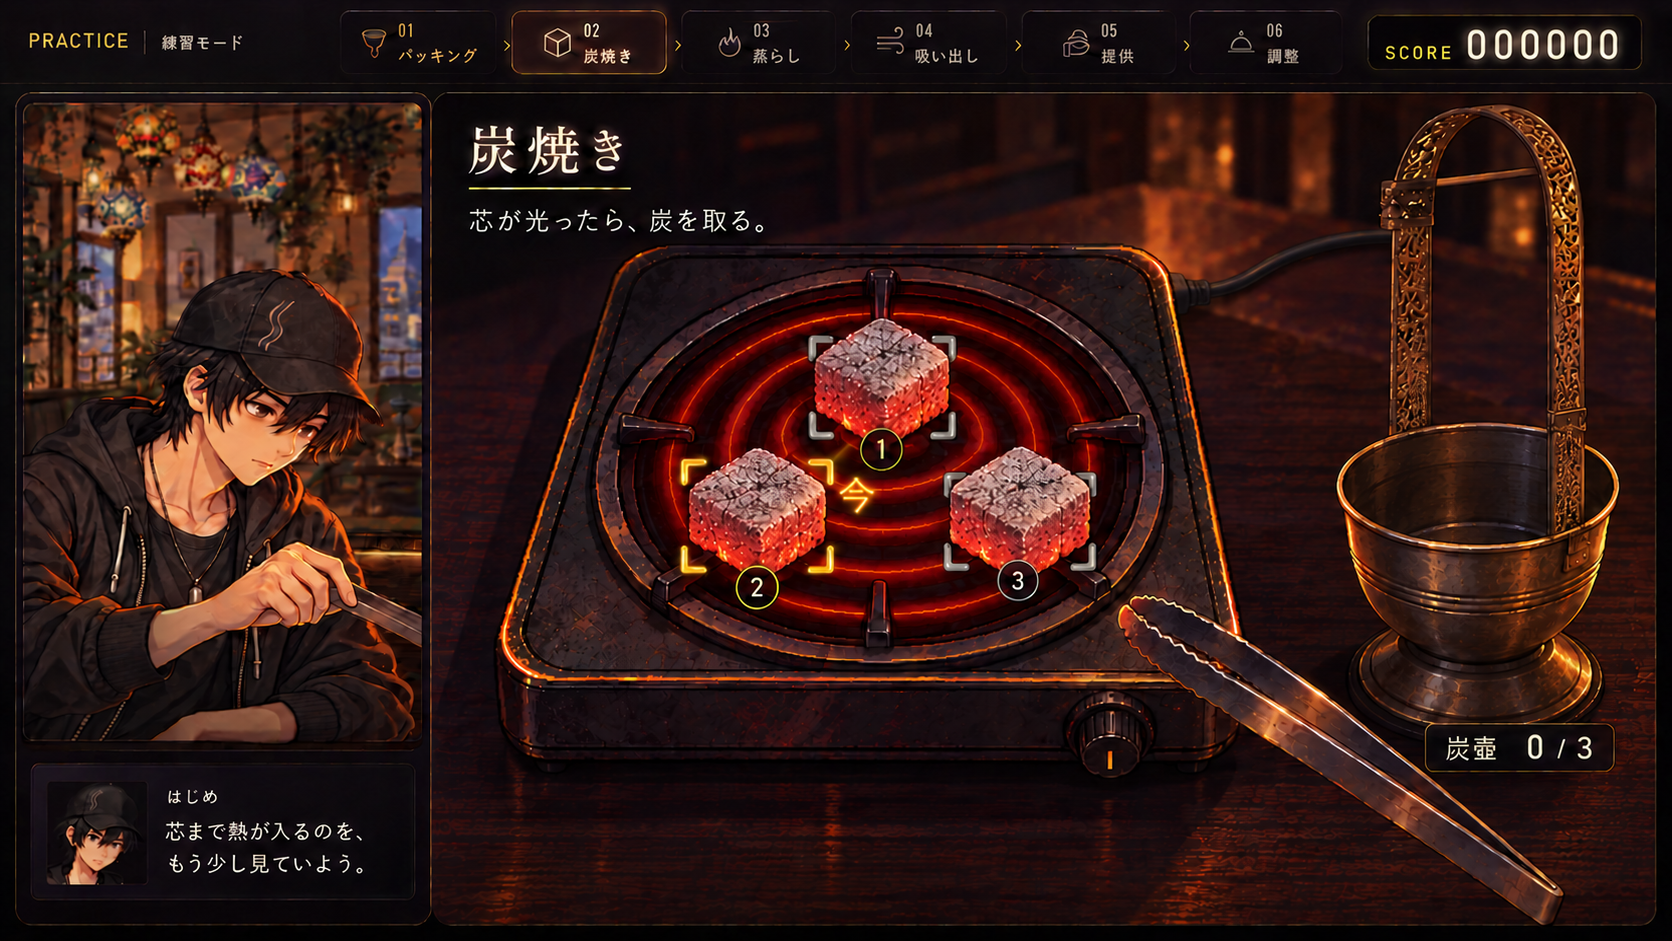
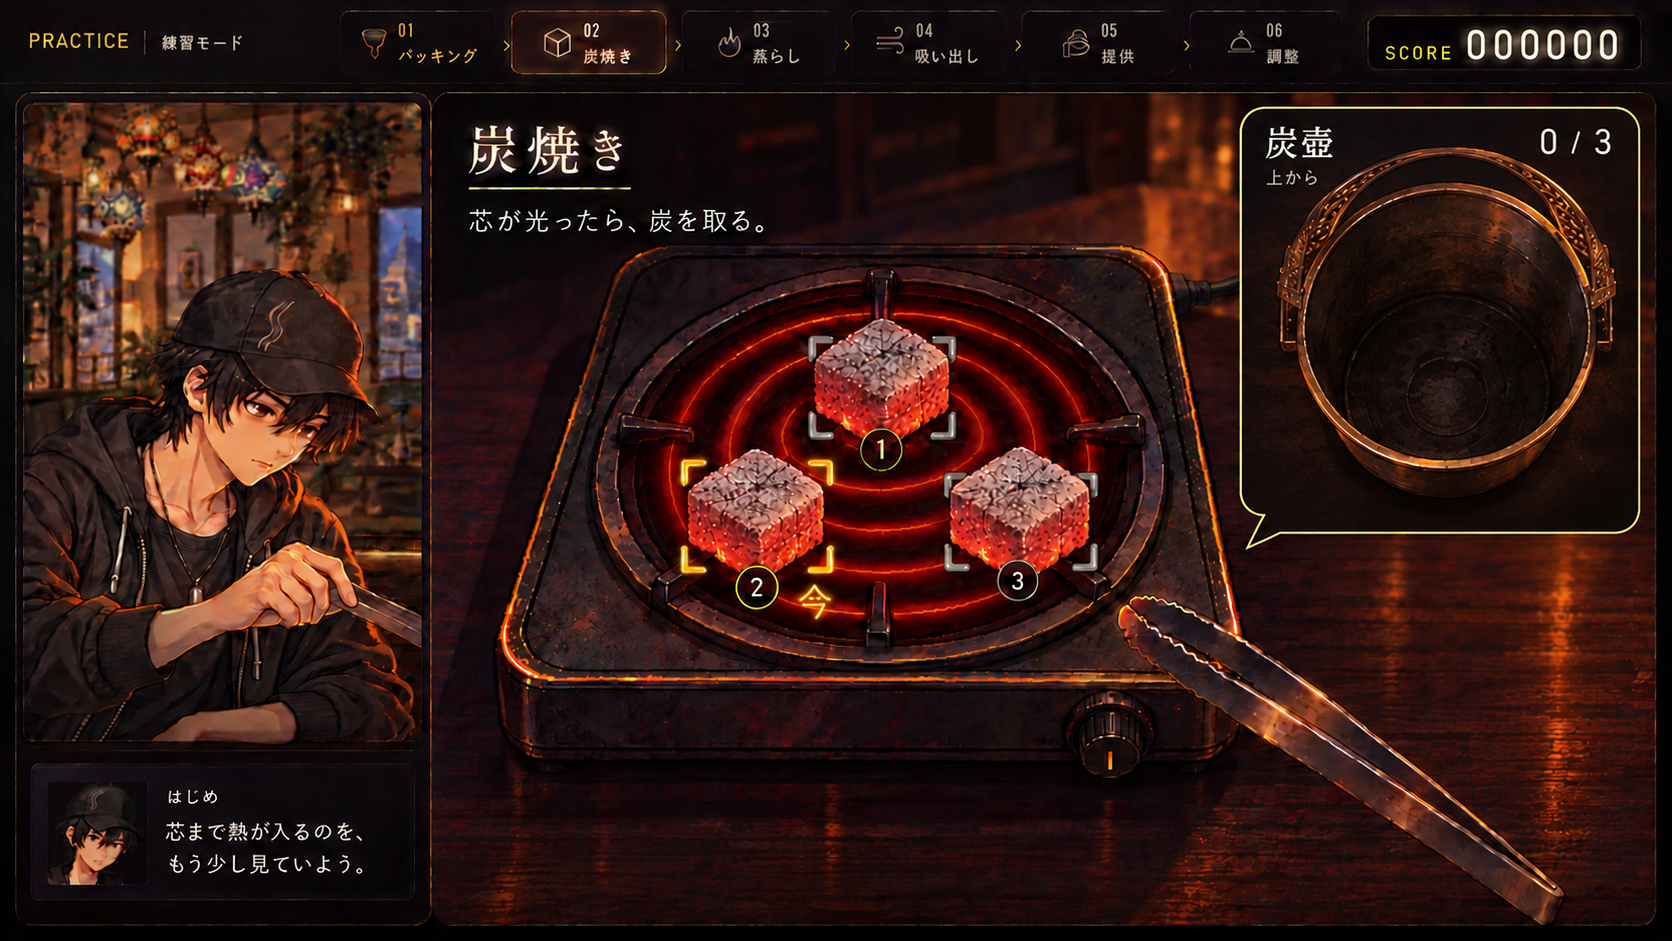
design(heat): show charcoal carrier in a separate overhead inset

diff --git a/asset_sources/coal-heat-ui-proposals/iterations/hybrid-v3/hybrid.html b/asset_sources/coal-heat-ui-proposals/iterations/hybrid-v3/hybrid.html
@@ -1,0 +1,32 @@
+<!doctype html>
+<html lang="ja">
+<head>
+<meta charset="utf-8">
+<meta name="viewport" content="width=device-width,initial-scale=1">
+<meta name="color-scheme" content="dark">
+<link rel="icon" href="data:,">
+<title>炭焼きUI · A/B統合プレビュー</title>
+<style>
+:root{color-scheme:dark;--bg:#100d15;--line:#3d333e;--text:#ece6dc;--dim:#afa1ae;--gold:#e1bc7a;font-family:"Noto Sans CJK JP","Hiragino Kaku Gothic ProN","Yu Gothic",sans-serif}*{box-sizing:border-box}body{margin:0;background:radial-gradient(ellipse at 90% 0,#352235,transparent 55%),var(--bg);color:var(--text);line-height:1.7}button{font:inherit;cursor:pointer;touch-action:manipulation}a{color:var(--dim);text-underline-offset:4px}button:focus-visible,a:focus-visible,img:focus-visible{outline:3px solid #f5d8a0;outline-offset:4px}header,main,footer{width:min(1456px,calc(100% - 64px));margin:auto}header{padding:27px 0 19px;display:flex;justify-content:space-between;align-items:flex-end;gap:24px}.eyebrow{color:var(--gold);font-size:10px;letter-spacing:.15em;margin:0 0 5px}h1{font-size:23px;line-height:1.5;margin:0;font-weight:600}.scope{font-size:11px;color:var(--dim);text-align:right}.toolbar{border-top:1px solid var(--line);padding:16px 0;display:flex;justify-content:space-between;gap:16px}.tabs{display:flex;gap:9px}.tab,.compare-btn,.close{color:var(--dim);background:#201923;border:1px solid var(--line);border-radius:7px;padding:10px 18px;font-size:13px}.tab[aria-selected=true]{color:var(--text);border-color:var(--gold);background:#3a2d27}.compare-btn[aria-pressed=true]{color:var(--gold);border-color:var(--gold)}.viewer{background:#09070d;border:1px solid #57404a;border-radius:10px;overflow:hidden;box-shadow:0 20px 60px #0005}.viewer img{width:100%;display:block;cursor:zoom-in}.both{display:grid;grid-template-columns:1fr 1fr;gap:22px}.both figure{border:1px solid var(--line);border-radius:9px;overflow:hidden;margin:0;background:#19131e}.both img{display:block;width:100%;cursor:zoom-in}.both figcaption{padding:12px 18px;color:var(--dim);font-size:12px}footer{padding:19px 0 24px;font-size:11px;text-align:right}[hidden]{display:none!important}dialog{max-width:calc(100vw - 32px);max-height:calc(100dvh - 32px);padding:12px;border:1px solid #675043;border-radius:8px;background:#0d0911;color:var(--text)}dialog::backdrop{background:#050307e8}dialog .bar{display:flex;justify-content:space-between;gap:25px;padding:5px 4px 14px;align-items:center;font-size:12px}dialog img{max-width:100%;max-height:calc(100dvh - 130px);display:block;width:auto;height:auto;margin:auto}.close{font-size:12px;padding:6px 15px}#board{display:none}body.board header,body.board main,body.board footer,body.board dialog{display:none}body.board #board{display:block;width:1800px;padding:32px 36px;background:#100d15}.board-top{margin-bottom:24px}.board-top h1{font-size:30px}#board .both figcaption{padding:16px 20px;font-size:17px}#board .both img{cursor:default}@media(max-width:800px){header,main,footer{width:calc(100% - 32px)}header{padding-top:19px;gap:12px}h1{font-size:19px}.eyebrow{font-size:8px}.scope{font-size:9px}.toolbar{gap:8px}.tab,.compare-btn{font-size:11px;padding:8px 10px}.tabs{gap:6px}.both{grid-template-columns:1fr;gap:16px}}@media(prefers-reduced-motion:reduce){*{scroll-behavior:auto}}
+</style>
+</head>
+<body>
+<header><div><p class="eyebrow">水煙前線 -EN:CODE-　／　A × B HYBRID</p><h1>炭焼きUI</h1></div><div class="scope">静止モック<br>画像を押すと拡大</div></header>
+<main>
+<div class="toolbar"><div class="tabs" role="tablist" aria-label="取り出し前後"><button class="tab" role="tab" id="before" aria-selected="true" aria-controls="single" data-state="before">取り出す前 · 0/3</button><button class="tab" role="tab" id="after" aria-selected="false" aria-controls="single" tabindex="-1" data-state="after">1個回収後 · 1/3</button></div><button class="compare-btn" id="compare" aria-pressed="false">前後を並べる</button></div>
+<section id="single" role="tabpanel" aria-labelledby="before"><div class="viewer"><img id="hero" src="AB-hybrid-before.png?rev=scale-v3" alt="取り出し前。コンロに炭3個、炭壺に0個。コンロ後部には電源コードがつながり、炭壺は受け部から離れた長い持ち手を備える。" tabindex="0" data-zoom></div></section>
+<section class="both" id="both" aria-label="回収前後の比較" hidden><figure><img src="AB-hybrid-before.png?rev=scale-v3" alt="取り出し前：コンロに3個、炭壺に0個。" tabindex="0" data-zoom><figcaption>取り出す前 · 0/3</figcaption></figure><figure><img src="AB-hybrid-after.png?rev=scale-v3" alt="1個回収後：コンロに2個、炭壺に1個。" tabindex="0" data-zoom><figcaption>1個回収後 · 1/3</figcaption></figure></section>
+</main>
+<footer><a href="../../README.md">提案・制作記録</a></footer>
+<dialog id="zoom"><div class="bar"><span id="zoom-title"></span><button class="close" id="close">閉じる　Esc</button></div><img id="zoom-image" alt=""></dialog>
+<div id="board"><div class="board-top"><p class="eyebrow">水煙前線 -EN:CODE-　／　A × B HYBRID</p><h1>炭焼きUI</h1></div><div class="both"><figure><img src="AB-hybrid-before.png?rev=scale-v3" alt="取り出し前"><figcaption>取り出す前 · コンロ3個 ／ 炭壺0個</figcaption></figure><figure><img src="AB-hybrid-after.png?rev=scale-v3" alt="1個回収後"><figcaption>1個回収後 · コンロ2個 ／ 炭壺1個</figcaption></figure></div></div>
+<script>
+const states={before:{file:'AB-hybrid-before.png?rev=scale-v3',alt:'取り出し前：コンロに3個、炭壺に0個。'},after:{file:'AB-hybrid-after.png?rev=scale-v3',alt:'1個回収後：コンロに2個、炭壺に1個。'}};
+const tabs=[...document.querySelectorAll('.tab')],single=document.getElementById('single'),both=document.getElementById('both'),compare=document.getElementById('compare');let current='before';
+function show(key){current=key;const s=states[key];tabs.forEach(t=>{const on=t.dataset.state===key;t.setAttribute('aria-selected',String(on));t.tabIndex=on?0:-1});single.setAttribute('aria-labelledby',key);document.getElementById('hero').src=s.file;document.getElementById('hero').alt=s.alt;single.hidden=false;both.hidden=true;compare.setAttribute('aria-pressed','false');history.replaceState(null,'','#'+key)}
+tabs.forEach((t,i)=>{t.addEventListener('click',()=>show(t.dataset.state));t.addEventListener('keydown',e=>{let n;if(e.key==='ArrowLeft'||e.key==='ArrowRight')n=1-i;if(e.key==='Home')n=0;if(e.key==='End')n=1;if(n!==undefined){e.preventDefault();show(tabs[n].dataset.state);tabs[n].focus()}})});
+compare.addEventListener('click',()=>{const on=compare.getAttribute('aria-pressed')!=='true';compare.setAttribute('aria-pressed',String(on));single.hidden=on;both.hidden=!on;if(on)history.replaceState(null,'','#both');else show(current)});
+const dialog=document.getElementById('zoom');document.querySelectorAll('[data-zoom]').forEach(img=>{const open=()=>{document.getElementById('zoom-image').src=img.src;document.getElementById('zoom-image').alt=img.alt;document.getElementById('zoom-title').textContent=img.alt;dialog.showModal()};img.addEventListener('click',open);img.addEventListener('keydown',e=>{if(e.key==='Enter'||e.key===' '){e.preventDefault();open()}})});document.getElementById('close').addEventListener('click',()=>dialog.close());dialog.addEventListener('click',e=>{if(e.target===dialog)dialog.close()});if(new URLSearchParams(location.search).has('board'))document.body.classList.add('board');else if(location.hash==='#both')compare.click();else if(states[location.hash.slice(1)])show(location.hash.slice(1));
+</script>
+</body>
+</html>

diff --git a/asset_sources/coal-heat-ui-proposals/hybrid.html b/asset_sources/coal-heat-ui-proposals/hybrid.html
@@ -14,14 +14,14 @@
 <header><div><p class="eyebrow">水煙前線 -EN:CODE-　／　A × B HYBRID</p><h1>炭焼きUI</h1></div><div class="scope">静止モック<br>画像を押すと拡大</div></header>
 <main>
 <div class="toolbar"><div class="tabs" role="tablist" aria-label="取り出し前後"><button class="tab" role="tab" id="before" aria-selected="true" aria-controls="single" data-state="before">取り出す前 · 0/3</button><button class="tab" role="tab" id="after" aria-selected="false" aria-controls="single" tabindex="-1" data-state="after">1個回収後 · 1/3</button></div><button class="compare-btn" id="compare" aria-pressed="false">前後を並べる</button></div>
-<section id="single" role="tabpanel" aria-labelledby="before"><div class="viewer"><img id="hero" src="AB-hybrid-before.png?rev=scale-v3" alt="取り出し前。コンロに炭3個、炭壺に0個。コンロ後部には電源コードがつながり、炭壺は受け部から離れた長い持ち手を備える。" tabindex="0" data-zoom></div></section>
-<section class="both" id="both" aria-label="回収前後の比較" hidden><figure><img src="AB-hybrid-before.png?rev=scale-v3" alt="取り出し前：コンロに3個、炭壺に0個。" tabindex="0" data-zoom><figcaption>取り出す前 · 0/3</figcaption></figure><figure><img src="AB-hybrid-after.png?rev=scale-v3" alt="1個回収後：コンロに2個、炭壺に1個。" tabindex="0" data-zoom><figcaption>1個回収後 · 1/3</figcaption></figure></section>
+<section id="single" role="tabpanel" aria-labelledby="before"><div class="viewer"><img id="hero" src="AB-hybrid-before.png?rev=inset-v4" alt="取り出し前。コンロに炭3個、炭壺に0個。コンロ後部に電源コード。右上の吹き出しには別視点で上から見た空の炭壺。" tabindex="0" data-zoom></div></section>
+<section class="both" id="both" aria-label="回収前後の比較" hidden><figure><img src="AB-hybrid-before.png?rev=inset-v4" alt="取り出し前：コンロに3個、炭壺に0個。" tabindex="0" data-zoom><figcaption>取り出す前 · 0/3</figcaption></figure><figure><img src="AB-hybrid-after.png?rev=inset-v4" alt="1個回収後：コンロに2個、別視点の吹き出しの炭壺に炭2が1個。" tabindex="0" data-zoom><figcaption>1個回収後 · 1/3</figcaption></figure></section>
 </main>
 <footer><a href="README.md">提案・制作記録</a></footer>
 <dialog id="zoom"><div class="bar"><span id="zoom-title"></span><button class="close" id="close">閉じる　Esc</button></div><img id="zoom-image" alt=""></dialog>
-<div id="board"><div class="board-top"><p class="eyebrow">水煙前線 -EN:CODE-　／　A × B HYBRID</p><h1>炭焼きUI</h1></div><div class="both"><figure><img src="AB-hybrid-before.png?rev=scale-v3" alt="取り出し前"><figcaption>取り出す前 · コンロ3個 ／ 炭壺0個</figcaption></figure><figure><img src="AB-hybrid-after.png?rev=scale-v3" alt="1個回収後"><figcaption>1個回収後 · コンロ2個 ／ 炭壺1個</figcaption></figure></div></div>
+<div id="board"><div class="board-top"><p class="eyebrow">水煙前線 -EN:CODE-　／　A × B HYBRID</p><h1>炭焼きUI</h1></div><div class="both"><figure><img src="AB-hybrid-before.png?rev=inset-v4" alt="取り出し前"><figcaption>取り出す前 · コンロ3個 ／ 炭壺0個</figcaption></figure><figure><img src="AB-hybrid-after.png?rev=inset-v4" alt="1個回収後"><figcaption>1個回収後 · コンロ2個 ／ 炭壺1個</figcaption></figure></div></div>
 <script>
-const states={before:{file:'AB-hybrid-before.png?rev=scale-v3',alt:'取り出し前：コンロに3個、炭壺に0個。'},after:{file:'AB-hybrid-after.png?rev=scale-v3',alt:'1個回収後：コンロに2個、炭壺に1個。'}};
+const states={before:{file:'AB-hybrid-before.png?rev=inset-v4',alt:'取り出し前：コンロに3個、炭壺に0個。'},after:{file:'AB-hybrid-after.png?rev=inset-v4',alt:'1個回収後：コンロに2個、別視点の吹き出しの炭壺に炭2が1個。'}};
 const tabs=[...document.querySelectorAll('.tab')],single=document.getElementById('single'),both=document.getElementById('both'),compare=document.getElementById('compare');let current='before';
 function show(key){current=key;const s=states[key];tabs.forEach(t=>{const on=t.dataset.state===key;t.setAttribute('aria-selected',String(on));t.tabIndex=on?0:-1});single.setAttribute('aria-labelledby',key);document.getElementById('hero').src=s.file;document.getElementById('hero').alt=s.alt;single.hidden=false;both.hidden=true;compare.setAttribute('aria-pressed','false');history.replaceState(null,'','#'+key)}
 tabs.forEach((t,i)=>{t.addEventListener('click',()=>show(t.dataset.state));t.addEventListener('keydown',e=>{let n;if(e.key==='ArrowLeft'||e.key==='ArrowRight')n=1-i;if(e.key==='Home')n=0;if(e.key==='End')n=1;if(n!==undefined){e.preventDefault();show(tabs[n].dataset.state);tabs[n].focus()}})});

diff --git a/asset_sources/coal-heat-ui-proposals/README.md b/asset_sources/coal-heat-ui-proposals/README.md
@@ -2,7 +2,7 @@
 
 ## 最新の選定モック：A/B統合・実物の炭と炭壺
 
-ユーザーがA/Bのハイブリッドを選定。炭の焼け具合を実物写真で見直し、3枠のトレーを一つの炭壺へ替えた。画像下部の焼け方の凡例を削除し、熱い受け部から離れた長い持ち手を追加。最新修正は電源コードの後部接続と、実物の寸法比をもとにした炭壺内の小さな炭。
+ユーザーがA/Bのハイブリッドを選定。炭の質感と炭壺を実物に寄せ、凡例を削除し、電源コードを後部へ修正。最新モックでは炭壺を右上の独立した吹き出しへ移し、上から見る別視点として表示する。回収炭は灰・欠けた輪郭・番号2で、取る前の炭とのつながりを見せる。
 
 [専用プレビュー](https://shisha-coal-ui-preview.briskdill17.chatgpt.site) ／ [統合版の前後比較ページ](hybrid.html) ／ [前後の一覧画像](hybrid-comparison.png) ／ [実物の参考と描き分け](hybrid-reference.md)
 
@@ -11,15 +11,15 @@
 ![A/B統合：1個回収後](AB-hybrid-after.png)
 
 - **焼け頃の炭**：薄い白〜灰色の灰と赤い熾き。大きな黒い未着火の面・溶岩の割れ目・白い火口を見直し、圧縮された炭の細かな粒を描く。
-- **回収先**：単一の深い金属の炭壺へ。仕切りや3つのポケットを使わず、取った炭は同じ容器に収める。
+- **回収先**：単一の深い金属の炭壺を、右上の吹き出しに上から表示。枠・尾・視点の違いで別のカメラだと示す。仕切りや3つの収納枠は使わない。
 - **操作**：Aの寄り画と静かなコイルを土台に、Bの番号・角括弧・「今」を加える。実物の灰・熾きと、ゲーム用の判定合図を分ける。
-- **個数**：取り出し前はコンロ3個／壺0個。1個回収後はコンロ2個／壺1個。回収数は壺の脇へ置く。
+- **個数**：取り出し前はコンロ3個／壺0個。1個回収後はコンロ2個／壺1個。回収数と短い判定記録は吹き出しの中へまとめる。
 - **説明の整理**：「黒い芯→赤熱→芯が光る→灰かぶり」の常設カードを画像から削除。比較ページ下の説明も外し、画像と前後切替を中心にする。
 - **電源**：前面の誤った接続部と下のコードを削除し、コンロ後部の右寄りから一本のコードを引き出す。加熱部を跨がず、奥の台から画面外の電源へ続く。
-- **持ち手**：炭壺の縁から長い支柱が伸び、高い握り位置まで空間を確保。深い一つの受け部と台座を残す。
-- **壺内の炭**：25mm角炭と受け部直径130mmの寸法比（約1:5）を基準にする。原画の壺の開口幅約270pxに対し、回収炭の灰面の見える幅は約57px、約21%。壺の中に空間を残す。
+- **持ち手**：長い持ち手は小窓の奥側へ向け、上から中身を見られる姿勢へ。深い一つの受け部を維持する。
+- **炭のつながり**：整った別のキューブへ置換せず、灰の粒・欠けた角・赤い熾きを回収炭にも残す。番号2も添え、元の操作対象と対応させる。小窓は独立した視点なので、メインと同じ距離にある小さな物体として見せない。
 
-[今回の寸法根拠・編集指示・原画確認](hybrid-scale-generation.json)。前面にコードがつき、壺内の炭が大きかった前版は [iterations/hybrid-v2/](iterations/hybrid-v2/) に保存。さらに前の説明カードあり・電源コードなし・短い持ち手版は [iterations/hybrid-v1/](iterations/hybrid-v1/) に保存。
+[今回の構図・編集指示・原画確認](hybrid-inset-generation.json)。同じ机の上に小さな炭壺を置いていた前版と寸法計算は [iterations/hybrid-v3/](iterations/hybrid-v3/) に保存。前面コード版は [iterations/hybrid-v2/](iterations/hybrid-v2/)、説明カードあり・電源コードなし版は [iterations/hybrid-v1/](iterations/hybrid-v1/) に保存。
 
 統合版も採用前の静止モック。本編操作・採点・回収アニメーションは未接続。旧3案と初版は比較履歴として残す。下の旧案に描かれた炭の質感と3区画の回収皿は採用しない。
 
